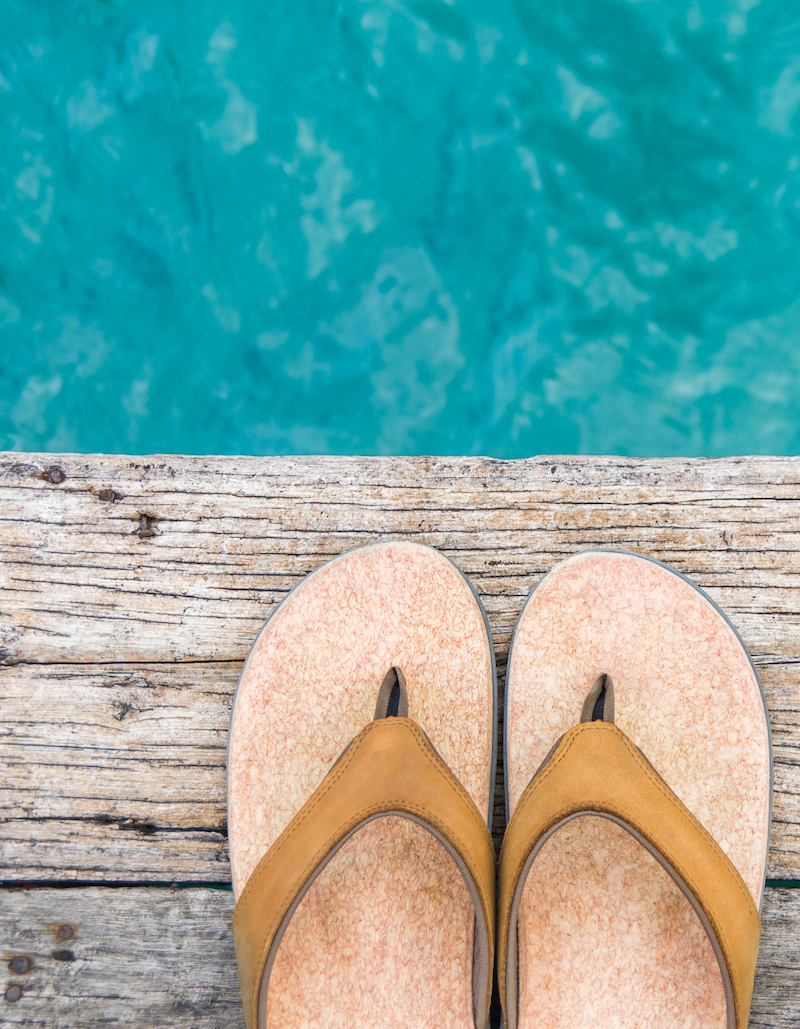
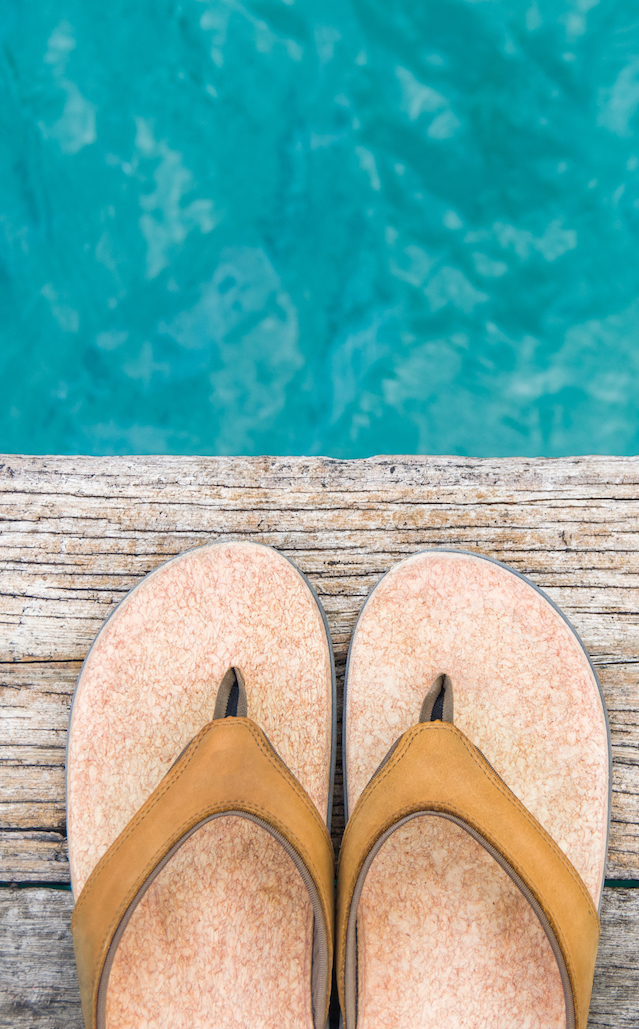
change mobile header picture sizing

diff --git a/templates/index.html b/templates/index.html
@@ -84,12 +84,12 @@
         <div class="row">
 
             <div class="col-lg-9 title-catchphrase">
-                <br><br><br>
+                <br><br>
                 <h1>Your next vacation is right around the corner.
 
             </div>
             <div class="col-lg-3">
-                <br><br><br><br><br><br><br>
+                <br><br><br><br><br><br><br><br><br>
                 <!-- <button type="button" class="btn btn-outline-primary">Join Flight Club</button> -->
                 <!-- <img src={{ url_for('static', filename="images/flipflops.jpg") }} alt="travel-pic" width=100%> -->
             </div>

diff --git a/templates/header.html b/templates/header.html
@@ -31,7 +31,7 @@
 </head>
 <body>
 <section id="title">
-    <div class="container-fluid-header" style="height: 90px;">
+    <div class="container-fluid-header">
         <!-- Nav Bar -->
         <nav class="navbar navbar-expand navbar-dark">
             <a style="" class="navbar-brand" href="{{ url_for('landing_page') }}">Flight Club

diff --git a/static/css/styles.css b/static/css/styles.css
@@ -78,11 +78,13 @@ h2 {
   padding: 10px 0 0 22px;
   background-image: url("../images/flipflops-full-resized.jpg");
   background-size: cover;
+  height: 800px;
 }
 .container-fluid-header {
   padding: 10px 0 0 22px;
   background-image: url("../images/header-snippet.jpg");
   background-size: cover;
+  height: 90px;
 }
 
 
